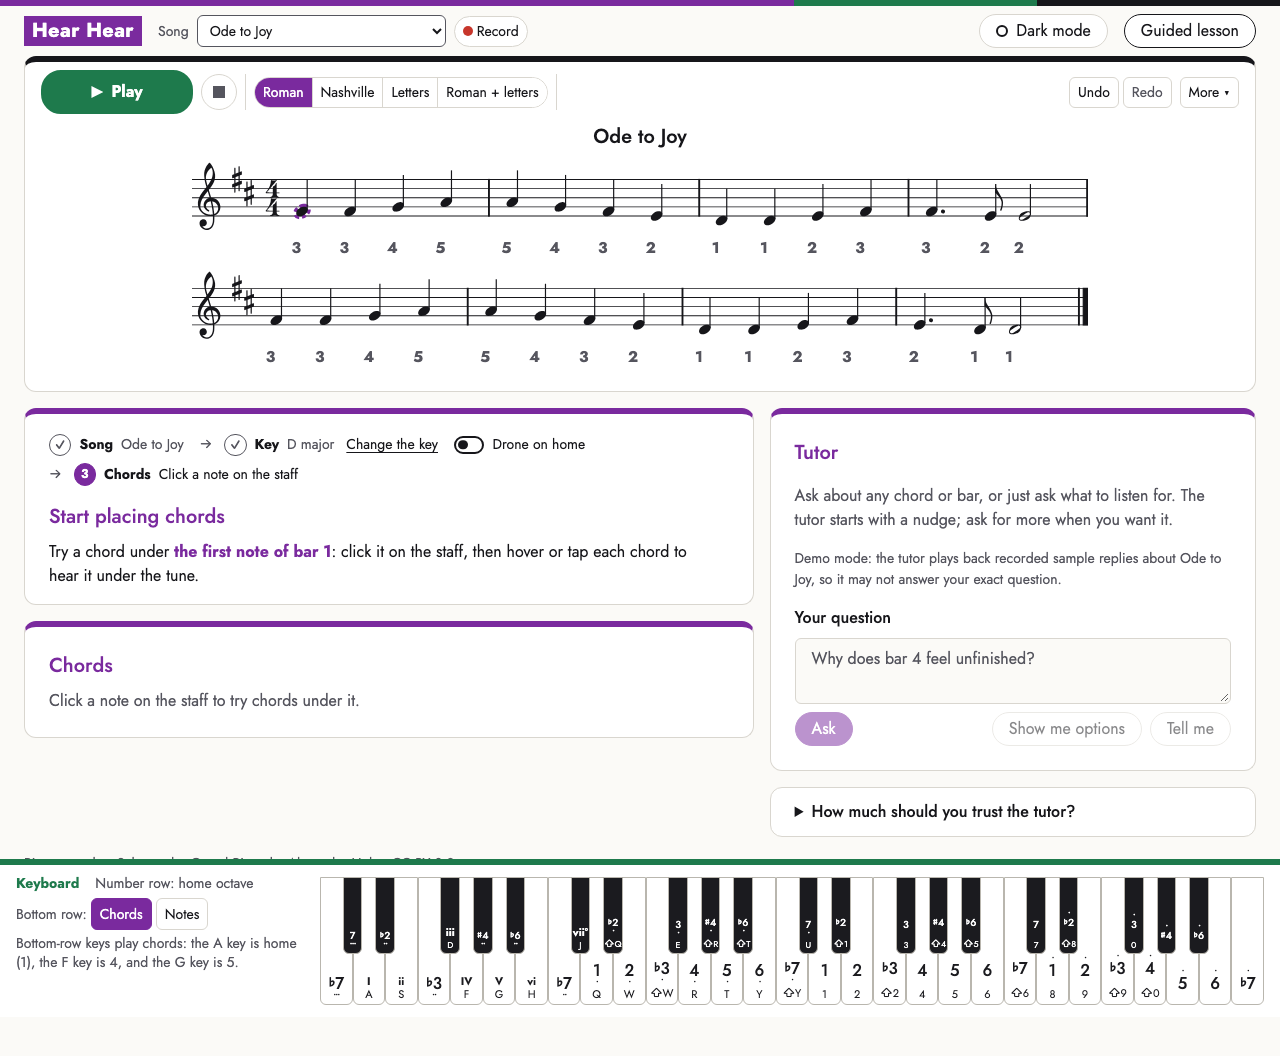
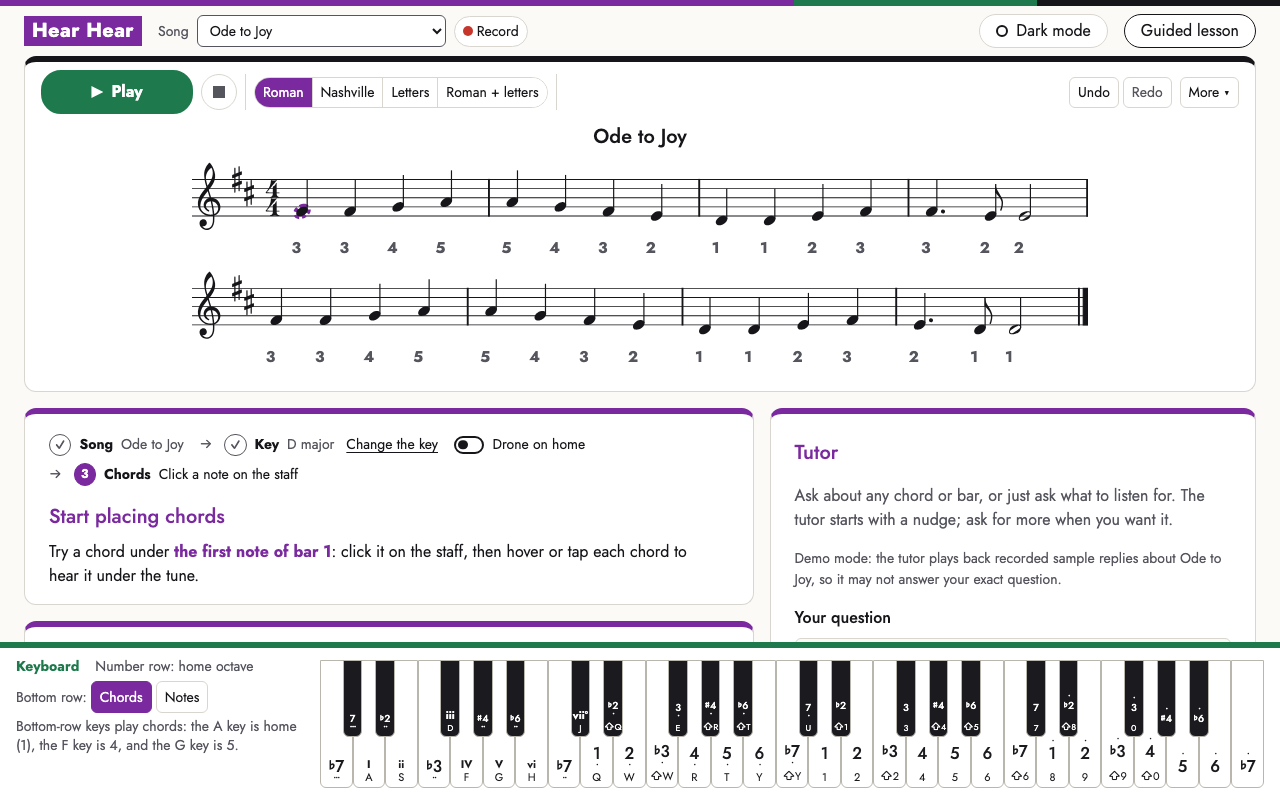
test(e2e): three-step screens show the viewport a viewer sees

Changed region(s): [[0.0, 0.3438, 1.0, 0.9375], [0.0, 0.0, 1.0, 0.3125], [0.25, 0.875, 1.0, 1.0]]

diff --git a/tests/e2e/three-steps.spec.js b/tests/e2e/three-steps.spec.js
@@ -11,12 +11,22 @@ import { axe } from "./axe.js";
 const SCREENS = process.env.SCREENS === "1";
 
 /**
+ * The viewport as a viewer sees it, with `focus` scrolled into view (the
+ * pointer moved off so no tooltip is left open).
  * @param {import("@playwright/test").Page} page
  * @param {string} name
+ * @param {string} [focus] a selector
  */
-async function screen(page, name) {
-  if (SCREENS)
-    await page.screenshot({ path: `docs/screens/three-steps/${name}.png`, fullPage: true });
+async function screen(page, name, focus) {
+  if (!SCREENS) return;
+  await page.mouse.move(0, 0);
+  if (focus) {
+    await page
+      .locator(focus)
+      .first()
+      .evaluate((el) => el.scrollIntoView({ block: "center" }));
+  }
+  await page.screenshot({ path: `docs/screens/three-steps/${name}.png` });
 }
 
 for (const [width, height] of [
@@ -52,7 +62,7 @@ for (const [width, height] of [
     await expect(hints).toHaveCount(1);
     await expect(hints.first()).toContainText("Where does it come to rest?");
     await expect(page.locator("#staff .is-hint").first()).toBeAttached();
-    await screen(page, `2-key-hint-${width}`);
+    await screen(page, `2-key-hint-${width}`, "#key-prompt-title");
     await question.getByRole("button", { name: "Another hint" }).click();
     await expect(hints).toHaveCount(2);
     await expect(hints.nth(1)).toContainText("sharps or flats");
@@ -83,7 +93,7 @@ for (const [width, height] of [
     await expect(chordsStep).toContainText("Try a chord under the first note of bar 1");
     const start = page.locator('#staff [role="button"].is-start .abcjs-notehead');
     await expect(start).toHaveCount(1);
-    await screen(page, `3-chords-${width}`);
+    await screen(page, `3-chords-${width}`, "#staff");
     const box = await start.boundingBox();
     if (!box) throw new Error("the start note isn't on the staff");
     await start.click({ position: { x: box.width / 2, y: box.height / 4 } });
@@ -98,6 +108,6 @@ for (const [width, height] of [
     await expect(said.getByRole("button", { name: "Hear it again" })).toBeVisible();
     await expect(chordsStep).toContainText("bar 2");
     await axe(page);
-    await screen(page, `4-placed-${width}`);
+    await screen(page, `4-placed-${width}`, "#chords-step");
   });
 }
